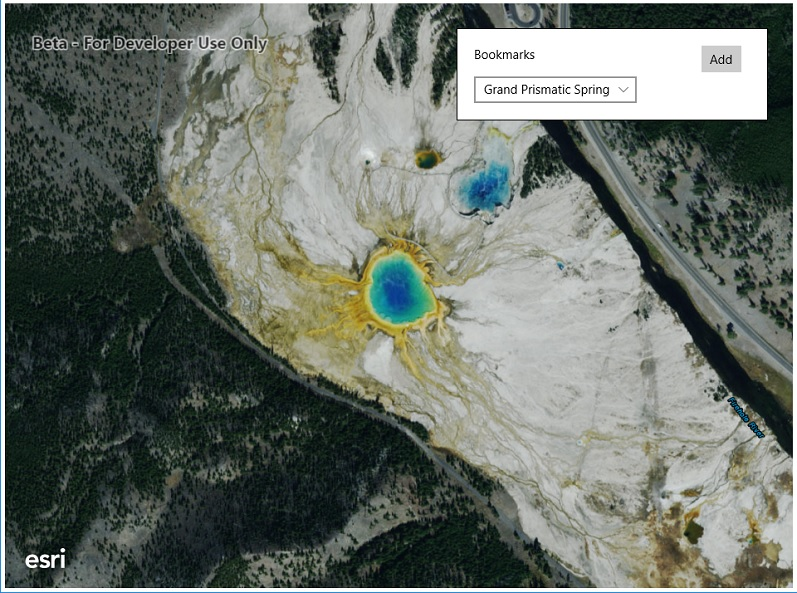
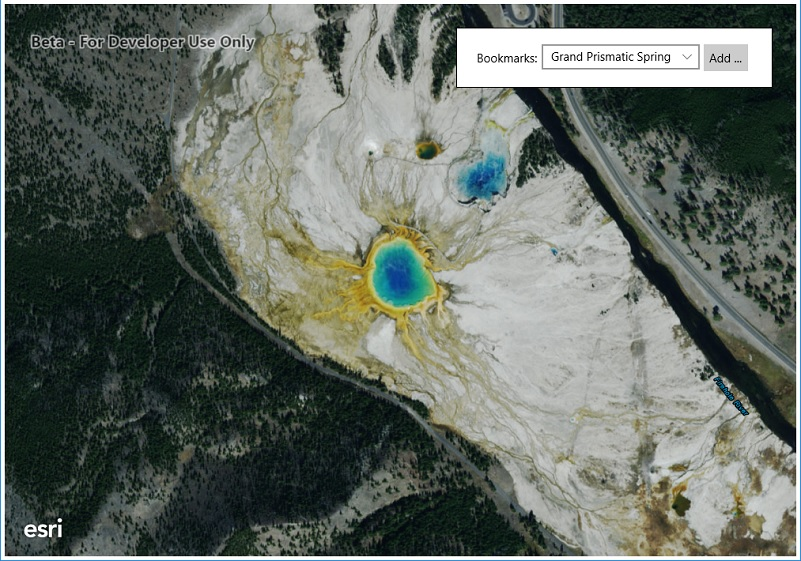
Mino UI tweaks and screenshot update.

diff --git a/src/Windows/ArcGISRuntime.Windows.Samples/Samples/Map/ManageBookmarks/ManageBookmarks.xaml b/src/Windows/ArcGISRuntime.Windows.Samples/Samples/Map/ManageBookmarks/ManageBookmarks.xaml
@@ -14,14 +14,14 @@
         <Border 
         Background="White" BorderBrush="Black" BorderThickness="1"
         HorizontalAlignment="Right" VerticalAlignment="Top"
-        Margin="30" Padding="20" Width="375">
+        Margin="30" Padding="20" Width="400">
             <StackPanel Orientation="Horizontal">
                 <TextBlock Text="Bookmarks:"
                         VerticalAlignment="Center"
                         Margin="5,0"/>
                 <ComboBox x:Name="bookmarkChooser" 
                         DisplayMemberPath="Name" 
-                        Width="160"
+                        Width="200"
                         SelectionChanged="OnBookmarkChooserSelectionChanged" />
                 <Button x:Name="ButtonAddBookmark"  
                     Margin="5,0" Padding="5"
@@ -34,7 +34,7 @@
         Background="AntiqueWhite" BorderBrush="Black" BorderThickness="1"
         HorizontalAlignment="Right" VerticalAlignment="Top"
         Margin="0,105,30,0" Padding="10" 
-        Width="375" Height="80">
+        Width="400" Height="110">
             <StackPanel>
                 <StackPanel Orientation="Horizontal">
                     <TextBlock Text="Bookmark Name:"
@@ -50,7 +50,7 @@
                     Click="ButtonAddDone_Click"/>
                     <Button x:Name="ButtonCanel" 
                     Content="Cancel" 
-                    Width="50"
+                    Width="60"
                     Margin="0,10,10,0" Padding="5"
                     Click="ButtonCanel_Click"/>
                 </StackPanel>

diff --git a/src/Windows/ArcGISRuntime.Windows.Samples/Samples/Map/ManageBookmarks/ManageBookmarksVB.xaml b/src/Windows/ArcGISRuntime.Windows.Samples/Samples/Map/ManageBookmarks/ManageBookmarksVB.xaml
@@ -15,14 +15,14 @@
         <Border 
         Background="White" BorderBrush="Black" BorderThickness="1"
         HorizontalAlignment="Right" VerticalAlignment="Top"
-        Margin="30" Padding="20" Width="375">
+        Margin="30" Padding="20" Width="400">
             <StackPanel Orientation="Horizontal">
                 <TextBlock Text="Bookmarks:"
                         VerticalAlignment="Center"
                         Margin="5,0"/>
                 <ComboBox x:Name="bookmarkChooser" 
                         DisplayMemberPath="Name" 
-                        Width="160"
+                        Width="200"
                         SelectionChanged="OnBookmarkChooserSelectionChanged" />
                 <Button x:Name="ButtonAddBookmark"  
                     Margin="5,0" Padding="5"
@@ -35,7 +35,7 @@
         Background="AntiqueWhite" BorderBrush="Black" BorderThickness="1"
         HorizontalAlignment="Right" VerticalAlignment="Top"
         Margin="0,105,30,0" Padding="10" 
-        Width="375" Height="80">
+        Width="375" Height="110">
             <StackPanel>
                 <StackPanel Orientation="Horizontal">
                     <TextBlock Text="Bookmark Name:"
@@ -51,7 +51,7 @@
                     Click="ButtonAddDone_Click"/>
                     <Button x:Name="ButtonCanel" 
                     Content="Cancel" 
-                    Width="50"
+                    Width="60"
                     Margin="0,10,10,0" Padding="5"
                     Click="ButtonCanel_Click"/>
                 </StackPanel>
